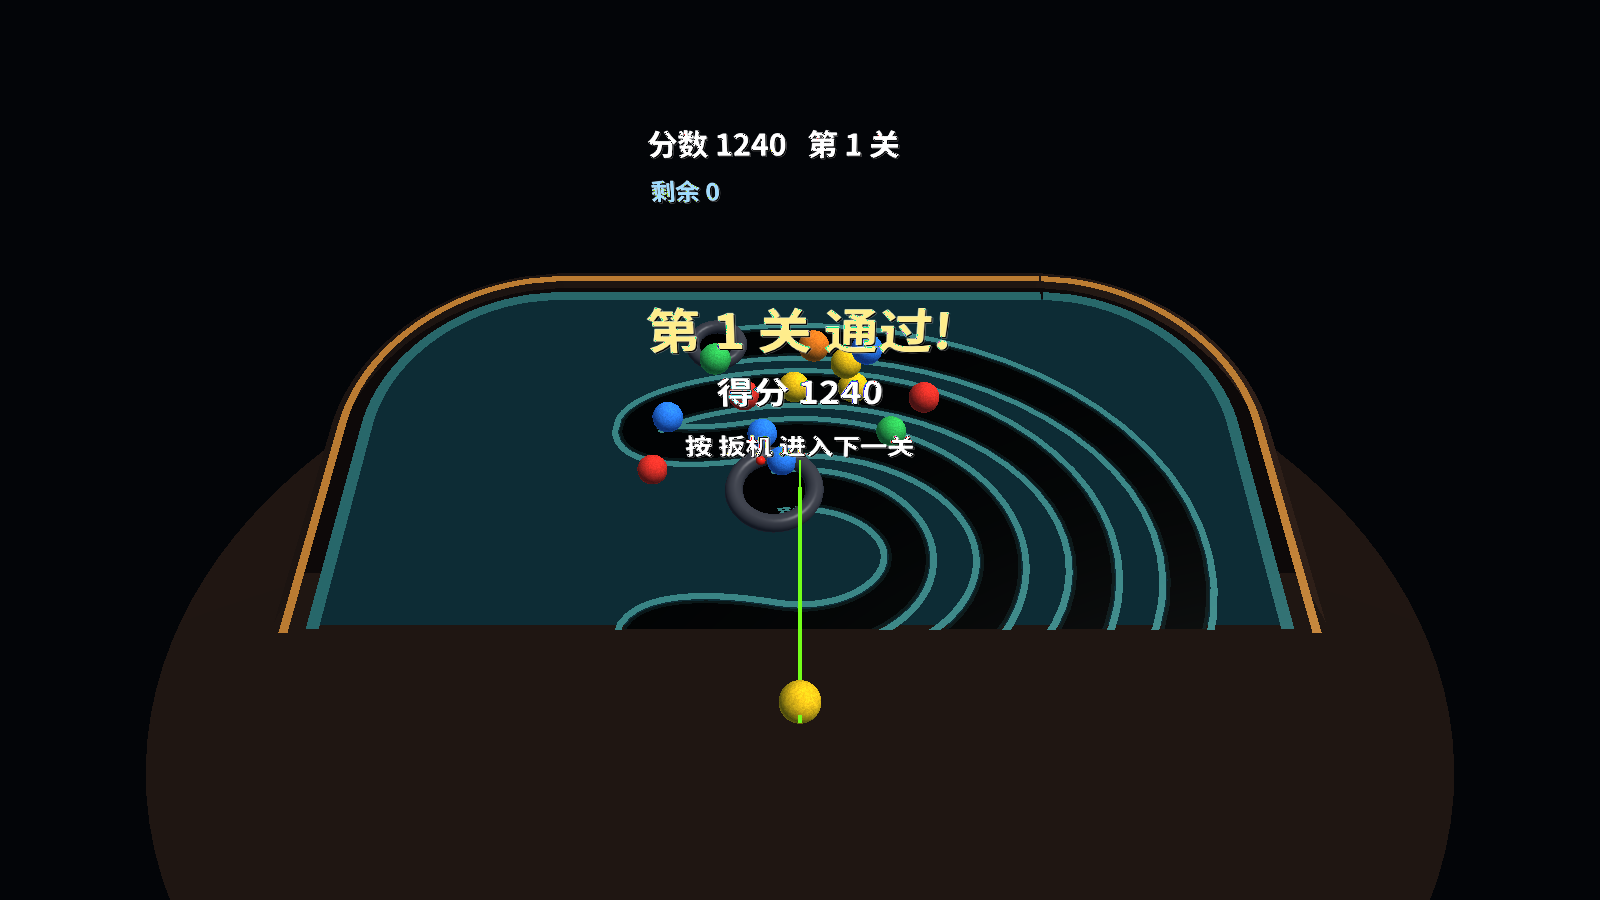
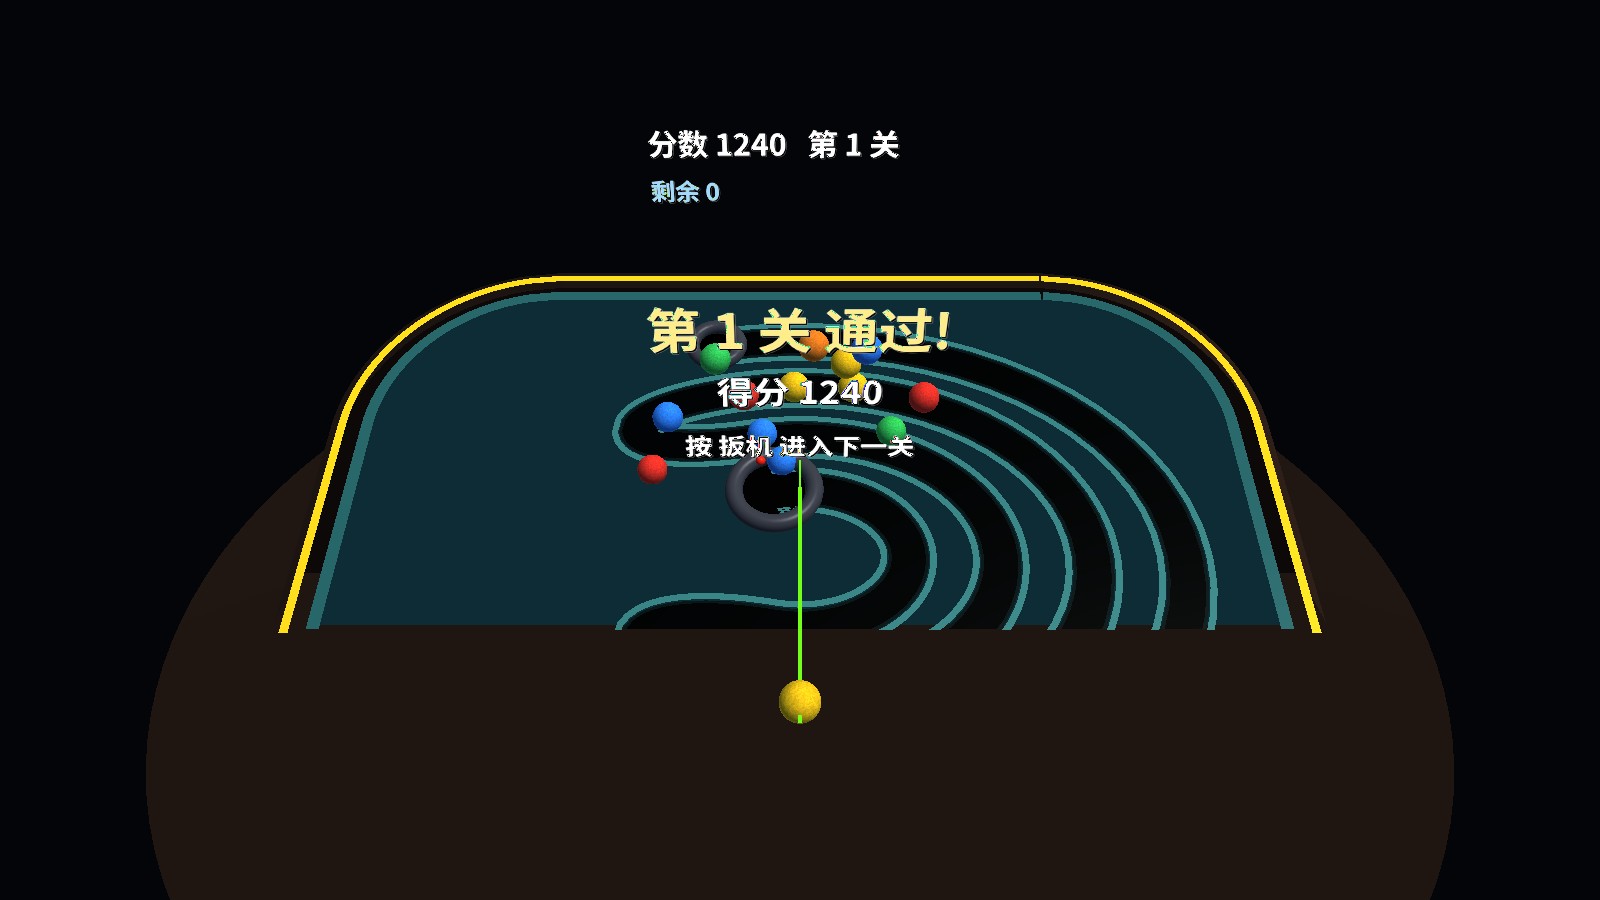
feat(render): 盘面外圈装饰线改为跟手上球同色
- 从静态盘面网格里摘掉烘死的铜色 ribbon，单独建一块白色顶点色的 rim 网格
- 每帧用 ballColor(g.Loaded) 给 rim 上色并贴着盘面一起倾斜
- 手上换球（开枪、死色替换）下一帧盘沿就跟着换色；README 记一句

diff --git a/internal/render/render.go b/internal/render/render.go
@@ -225,7 +225,9 @@ type Renderer struct {
 	uBallRot                                        mat3Loc
 	uMVP, uTex, uColor                              int32
 
-	board    *Mesh
+	board *Mesh
+	// rim is the painted edge band, drawn with the colour of the bead in hand.
+	rim      *Mesh
 	table    *Mesh
 	path     *game.Path
 	pathKey  string
@@ -310,6 +312,7 @@ func (r *Renderer) SetPath(bd game.Board, p *game.Path) {
 		return
 	}
 	r.board = upload(buildBoard(bd, p))
+	r.rim = upload(buildRim(bd))
 	r.table = upload(buildTable(bd))
 	r.path = p
 	r.pathKey = key
@@ -412,6 +415,18 @@ func tableRadius(bd game.Board) float32 {
 	return r + 0.55 // the felt edge plus the wooden rim, with a margin
 }
 
+// buildRim is the painted band around the felt. Its vertices are white so the
+// draw call can tint it with whatever bead the player is holding.
+func buildRim(bd game.Board) *Builder {
+	b := &Builder{}
+	pts := bd.Inflate(0.115).Outline(180)
+	if len(pts) > 0 {
+		pts = append(pts, pts[0])
+	}
+	b.ribbon(game.NewPath(pts), 0.035, 0.020, rgba(1, 1, 1, 1))
+	return b
+}
+
 func buildTable(bd game.Board) *Builder {
 	b := &Builder{}
 	const seg = 120
@@ -431,7 +446,6 @@ func buildBoard(bd game.Board, path *game.Path) *Builder {
 	woodDark := rgba(0.10, 0.065, 0.05, 1)
 	felt := rgba(0.105, 0.300, 0.305, 1)
 	feltHi := rgba(0.14, 0.36, 0.36, 1)
-	copper := rgba(0.66, 0.43, 0.17, 1)
 	stone := rgba(0.22, 0.23, 0.26, 1)
 
 	// The felt takes the board's own silhouette, so oval / rounded-rectangle /
@@ -446,7 +460,6 @@ func buildBoard(bd game.Board, path *game.Path) *Builder {
 		return pts
 	}
 	b.ribbon(game.NewPath(closeLoop(bd.Inflate(0.01).Outline(180))), 0.05, 0.013, feltHi)
-	b.ribbon(game.NewPath(closeLoop(bd.Inflate(0.115).Outline(180))), 0.035, 0.020, copper)
 
 	// The groove: a channel just wide enough for the beads, with two lit lips.
 	b.ribbon(path, game.Diam*1.30, 0.0120, rgba(0.030, 0.075, 0.078, 1))
@@ -572,6 +585,16 @@ func (r *Renderer) Draw(vp mgl32.Mat4, cam mgl32.Vec3, world, hud mgl32.Mat4, g 
 	r.meshProg.Vec4(r.uTint, 1, 1, 1, 1)
 	r.meshProg.Float(r.uGloss, 0.25)
 	r.board.draw()
+
+	// The rim band wears the colour of the bead in hand.
+	if r.rim != nil {
+		c := ballColor(g.Loaded)
+		r.meshProg.Mat4(r.uModel, world)
+		r.meshProg.Vec4(r.uTint, c[0], c[1], c[2], 1)
+		r.meshProg.Float(r.uGloss, 0.25)
+		r.rim.draw()
+		r.meshProg.Vec4(r.uTint, 1, 1, 1, 1)
+	}
 
 	// Chain beads.
 	r.meshProg.Float(r.uGloss, 1.10)

diff --git a/README.md b/README.md
@@ -78,7 +78,9 @@ beam on purpose — the beam itself stops on the bead it will hit.
 - Gaps close from the **front** section (the side nearer the hole), so a clear
   can pull the next beads into a new match — chain reactions come from there.
 - The launcher only hands you colours that are **still on the chain**; a colour
-  that has been cleared completely is not dealt until it spawns again.
+  that has been cleared completely is not dealt until it spawns again. The band
+  painted around the felt wears the colour of the bead in hand, so the launcher
+  and the table always agree.
 - Losing: the chain's head reaches the hole. Winning: board and queue empty —
   the round then waits for you. The trigger fires a volley of thirty ordinary
   beads — every colour, random angles inside a 20° cone around your aim ray,
@@ -206,6 +208,7 @@ changing any on-screen text.
 - **场景**：盘面立在面前的桌上，像弹球台一样后仰 20°；标题页固定在房间里某个
   坐标，转头不会拖着它走。桌面窗口只是左眼的调试镜像。
 - 桌面有自己的坐标系：原点取毡面中心，**桌面高度＝原点到地面的距离（默认 0.50 m）**，倾角绕这个原点旋转（默认 20°）。右手摇杆上下调高度（0.15–1.65 m），左手摇杆上下调倾角（向上更平、向下更陡，0–35°）；桌子与盘面作为同一个刚体一起转。HUD 信息与结算文字独占一个「直立坐标系」——在世界里始终与地面垂直，不跟桌面倾角走。
+- 盘面外圈那条装饰线跟着**手上的球色**走（换球即换色），看一眼盘沿就知道下一颗是什么颜色。
 - 过关后结算页会等你扣扳机：一击沿射线方向、20° 圆锥内随机角度喷出 30 颗各色球，
   就是普通的空射（同样速度、同样弹道），伴随一声「砰」，随后进入下一关。
 - 规则：线路/盘形每关随机（单线螺旋、最多两层环、迷宫/圆弧发卡、波浪发卡、
